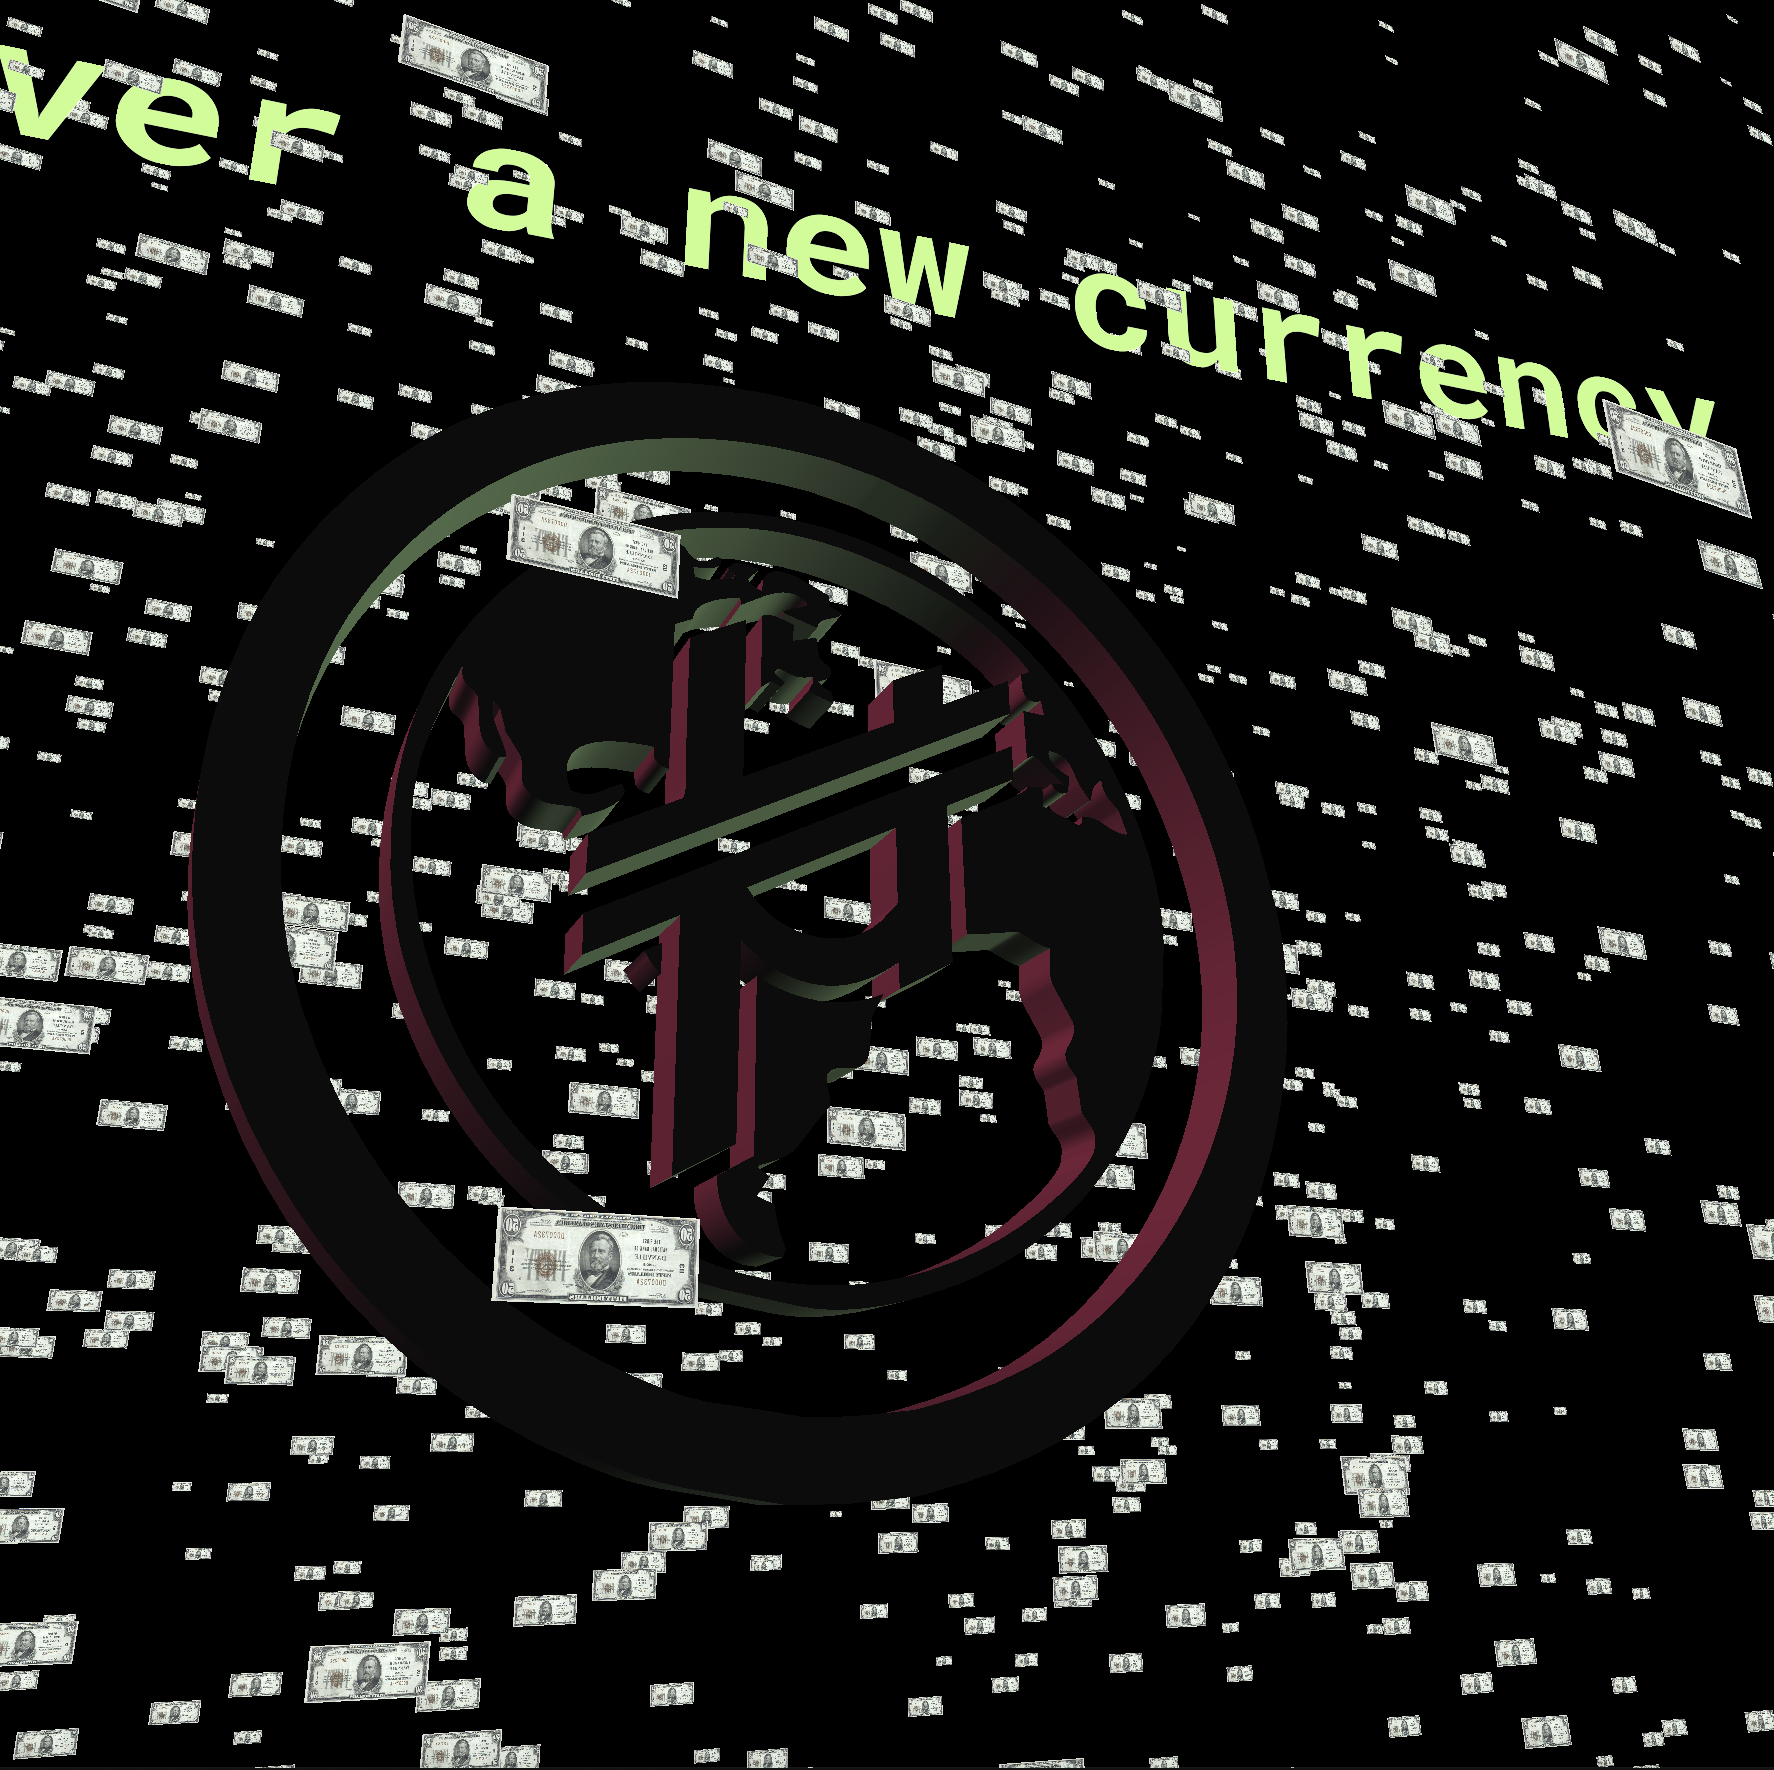
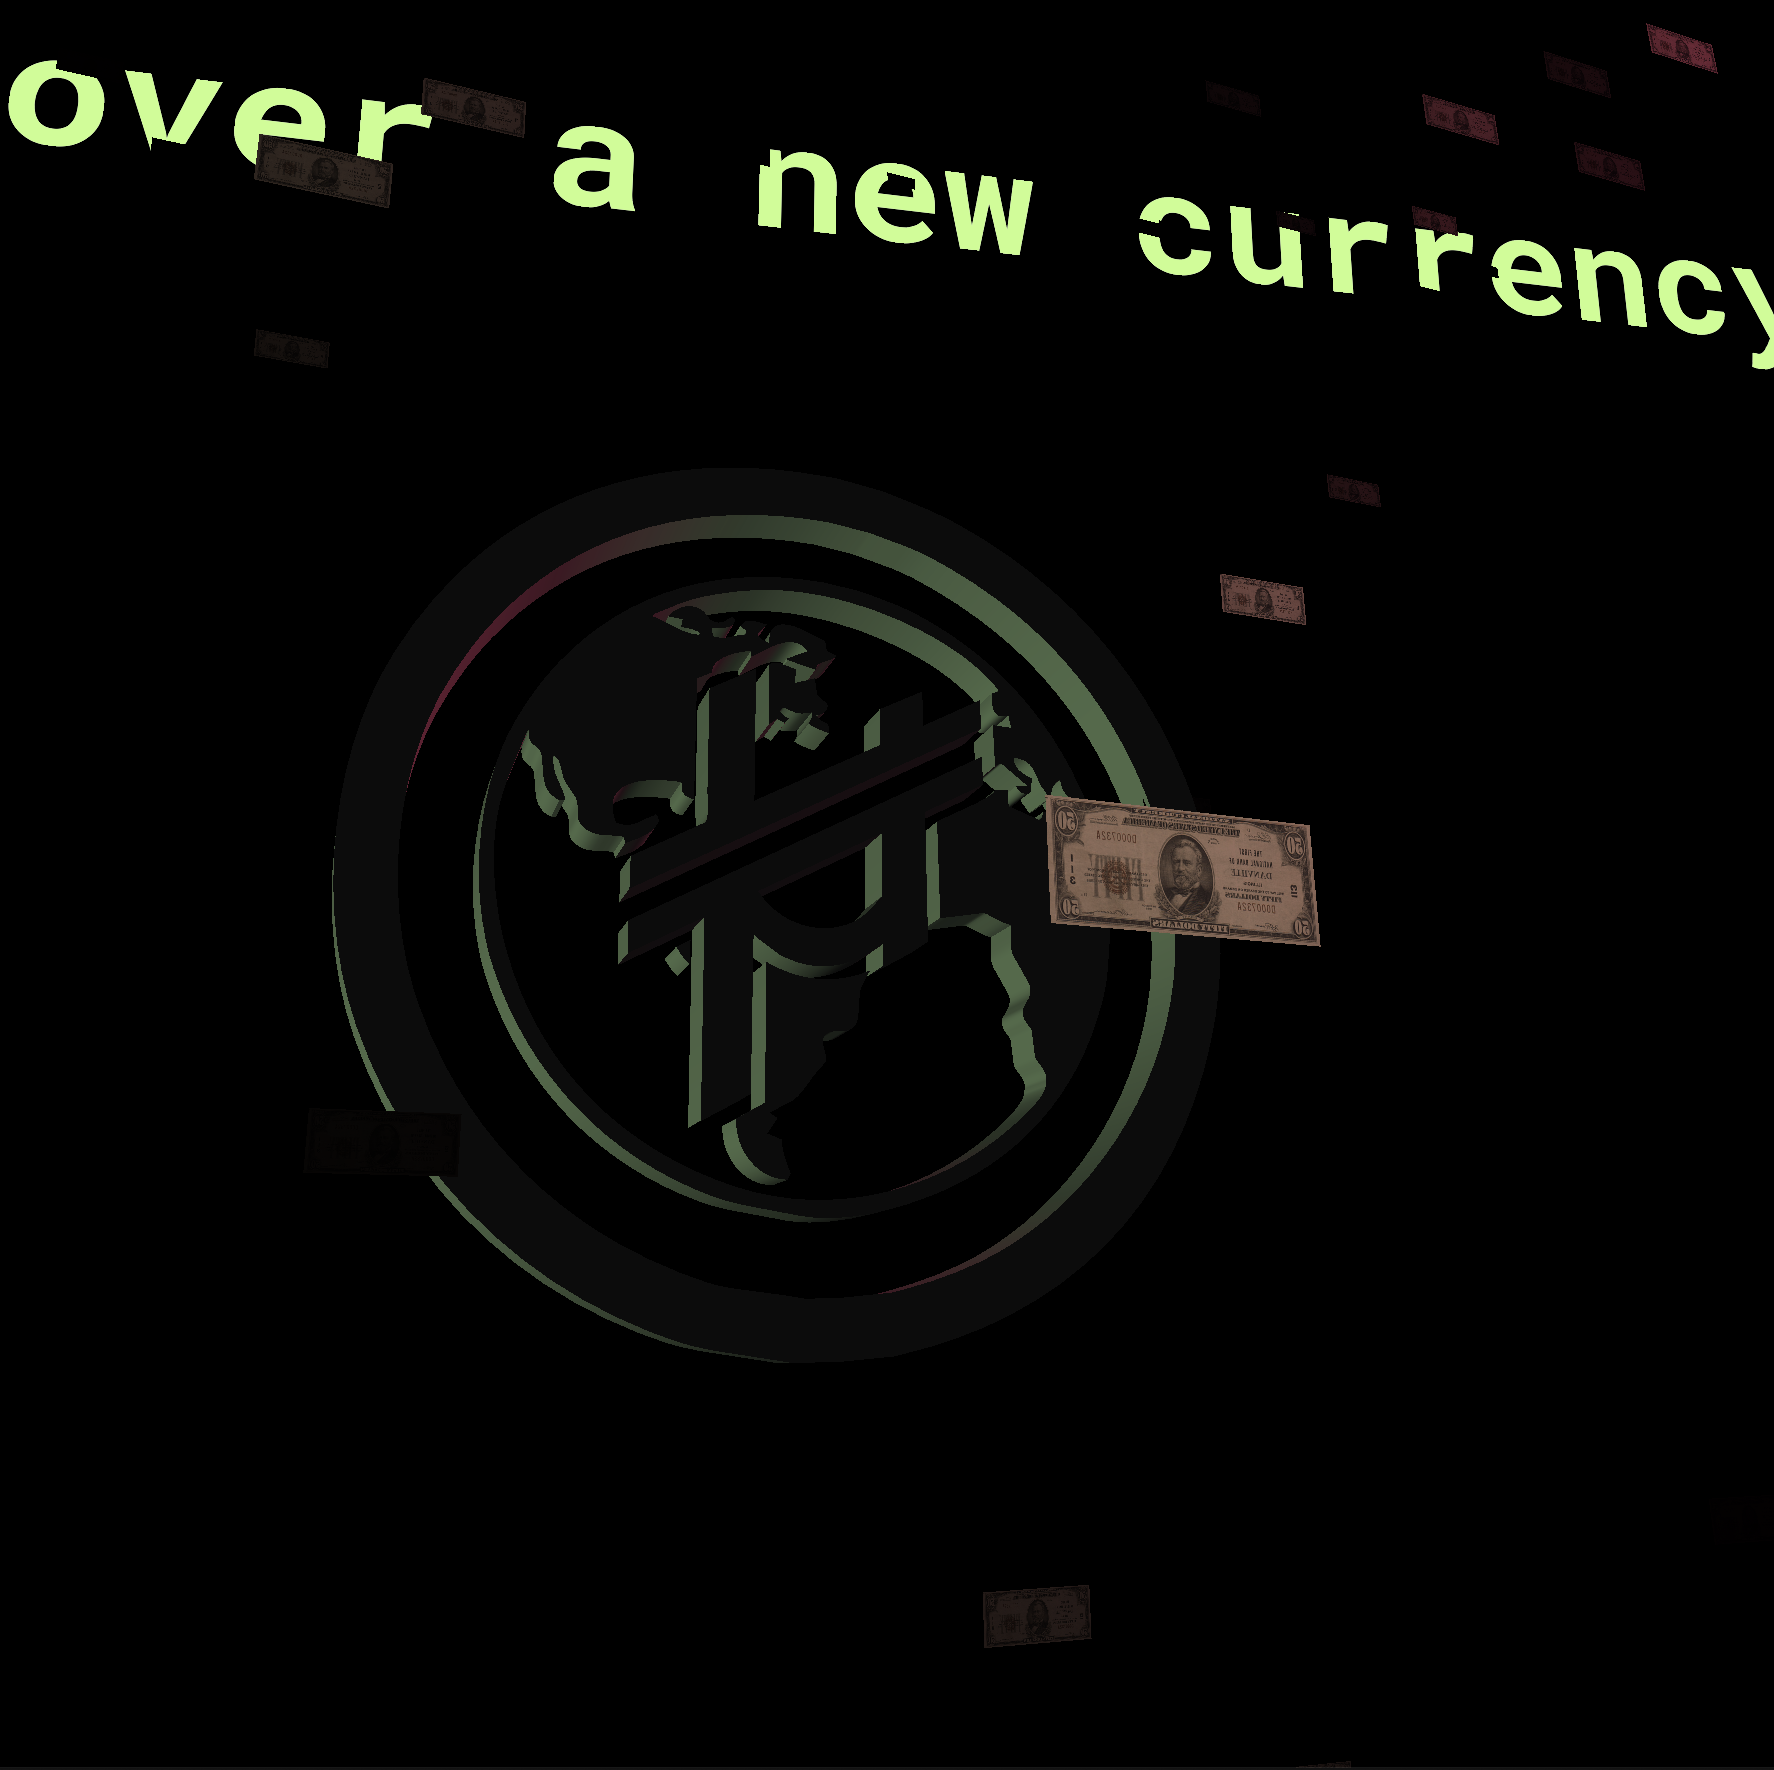
10

diff --git a/sketch.js b/sketch.js
@@ -8,6 +8,8 @@ var dollars = [];
 var numDollars = 3000;
 var tex;
 
+let locX, locY;
+
 function preload() {
 
   myModel = loadModel("assets/2.obj", true);
@@ -21,11 +23,6 @@ function setup() {
 
   cam = createCamera();
 
-  cam2 = createCamera();
-  cam2.setPosition(300, 100, -600);
-  cam2.lookAt(0, 0, 0);
-  cam2.ortho();
-
   // set variable for previously active camera:
   currentCamera = 0
 
@@ -33,59 +30,58 @@ function setup() {
   frameRate(50)
 
   for (var i = 0; i < numDollars; i++) {
-  dollars.push(new Dollar(random(-800, 800), random(-800, 800), random(1000, 500), random(0, PI), random(10, 28), random(0.03, 10) ));
-}
+    dollars.push(new Dollar(random(-800, 800), random(-800, 800), random(1000, 500), random(0, PI), random(10, 28), random(0.03, 10)));
+  }
 
 }
 
 function draw() {
   background(0);
 
-  let locX = mouseX - width / 2;
-  let locY = mouseY - height / 2;
+  locX = mouseX - width / 2;
+  locY = mouseY - height / 2;
 
   setCamera(cam)
-  cam.lookAt(0,0,0);
-  cam.setPosition(100,100, -600*frameCount/200)
+  cam.lookAt(0, 0, 0);
+  cam.setPosition(100, 100, -600 * frameCount / 200)
 
   if (frameCount >= 200) {
-    cam.setPosition(100,100, -600) }
-  // if (frameCount >= 210) {
+    cam.setPosition(100, 100, -600)
+  }
+  // if (frameCount >= 210) {           // if you want to move the 3D model after the intro
   //   cam.setPosition(locX,locY, -600)
   // }
 
-if (keyIsDown(ENTER) && frameCount >= 200 ) {
-  setCamera(cam2)
-  currentCamera = 1}
+  if (keyIsDown(ENTER) && frameCount >= 200) {
+    setCamera(cam2)
+    currentCamera = 1
+  }
 
   for (var i = 0; i < dollars.length; i++) {
-  dollars[i].move();
-  dollars[i].display();
-}
+    dollars[i].move();
+    dollars[i].display();
+  }
 
 
   push()
-    fill('#c5ff8c');
-   textFont(myFont);
-   textSize(90);
-   textAlign(CENTER)
-   rotateY(171)
-   rotateX(-5)
-   translate(0,-500,-400)
-   text('Discover a new currency', 50, 50);
-   pop()
-
-  //setting the camera for the instructions cube
-
+  fill('#c5ff8c');
+  textFont(myFont);
+  textSize(90);
+  textAlign(CENTER)
+  rotateY(171)
+  rotateX(-5)
+  translate(0, -500, -400)
+  text('Discover a new currency', 50, 50);
+  pop()
 
 
   push()
-   rotateZ(180)
-   rotateY(180)
+  rotateZ(180)
+  rotateY(180)
   noStroke();
   ambientLight(20, 20, 20, 20)
-    pointLight(159, 220, 141, locX, -locY, 0);
-    pointLight(240, 48, 104, -locX, locY, 0);
+  pointLight(159, 220, 141, locX, -locY, 0);
+  pointLight(240, 48, 104, -locX, locY, 0);
   ambientMaterial(150);
   model(myModel);
 
@@ -96,22 +92,22 @@ if (keyIsDown(ENTER) && frameCount >= 200 ) {
 }
 
 class Dollar {
-constructor (xPos, yPos, zPos, incl, sizeX, delta) {
+  constructor(xPos, yPos, zPos, incl, sizeX, delta) {
 
-  this.x = xPos;
-  this.y = yPos;
-  this.z = zPos;
-  this.angle = incl;
-  this.lenght = sizeX;
-  this.hight = sizeX/2.35;
-  this.speed = delta;
-}
+    this.x = xPos;
+    this.y = yPos;
+    this.z = zPos;
+    this.angle = incl;
+    this.lenght = sizeX;
+    this.hight = sizeX / 2.35;
+    this.speed = delta;
+  }
 
   move() {
     this.z -= this.speed;
   };
 
-  display(){
+  display() {
 
     push();
     translate(this.x, this.y, this.z);
@@ -119,6 +115,8 @@ constructor (xPos, yPos, zPos, incl, sizeX, delta) {
     rotateY(this.angle / 4);
     rotateZ(this.angle / 3);
     noStroke();
+    pointLight(159, 220, 141, locX, -locY, 0);
+    pointLight(240, 48, 104, -locX, locY, 0);
     texture(tex)
     plane(this.lenght, this.hight);
 
@@ -131,76 +129,3 @@ constructor (xPos, yPos, zPos, incl, sizeX, delta) {
 function windowResized() {
   resizeCanvas(windowWidth, windowHeight);
 }
-
-
-
-// var myModel;
-// var myFont;
-// // let intro;
-//
-// function preload() {
-//   myModel = loadModel("assets/2.obj", true); // If true, scale the model to a standardized size when loading (normalization)
-//   myFont = loadFont('assets/RobotoMono-Bold.ttf')
-// }
-//
-// function setup() {
-//   createCanvas(windowWidth, windowHeight, WEBGL);
-//
-//   angleMode(DEGREES);
-//
-//   // setting the camera for the instructions cube
-//     // var cameraX = mouseX - width / 2;
-//     // var cameraY = mouseY - height / 2;
-//     // camera(cameraX, cameraY, 0, 0, 0, 0, 0, 0, 0);
-//
-//
-//
-//
-//
-//
-//
-//
-// }
-//
-//
-//
-// function draw() {
-//
-//
-//
-//
-//   let locX = mouseX - width / 2;
-//   let locY = mouseY - height / 2;
-//
-//   background(3, 17, 9);
-//
-// push()
-//   fill('#c5ff8c');
-//  textFont(myFont);
-//  textSize(60);
-//  translate(-380,-450,-200)
-//  text('Discover a new coin', 50, 50);
-//  pop()
-//
-//
-//
-//   push()
-//
-//   ambientLight(10, 10, 10, 10)
-//   pointLight(159, 220, 141, locX, -locY, -790);
-//   pointLight(240, 48, 104, -locX, locY, - 790);
-//   translate(0,0,-800)
-//   scale(width * height / 2000000); // Scaled to make model fit into canvas
-//   rotateY(frameCount * 0.5);
-//   rotateZ(180)
-//   ambientMaterial(150);
-//   noStroke()
-//   model(myModel);
-//   pop()
-//
-//
-// }
-//
-// function windowResized() {
-//   resizeCanvas(windowWidth, windowHeight);
-// }
